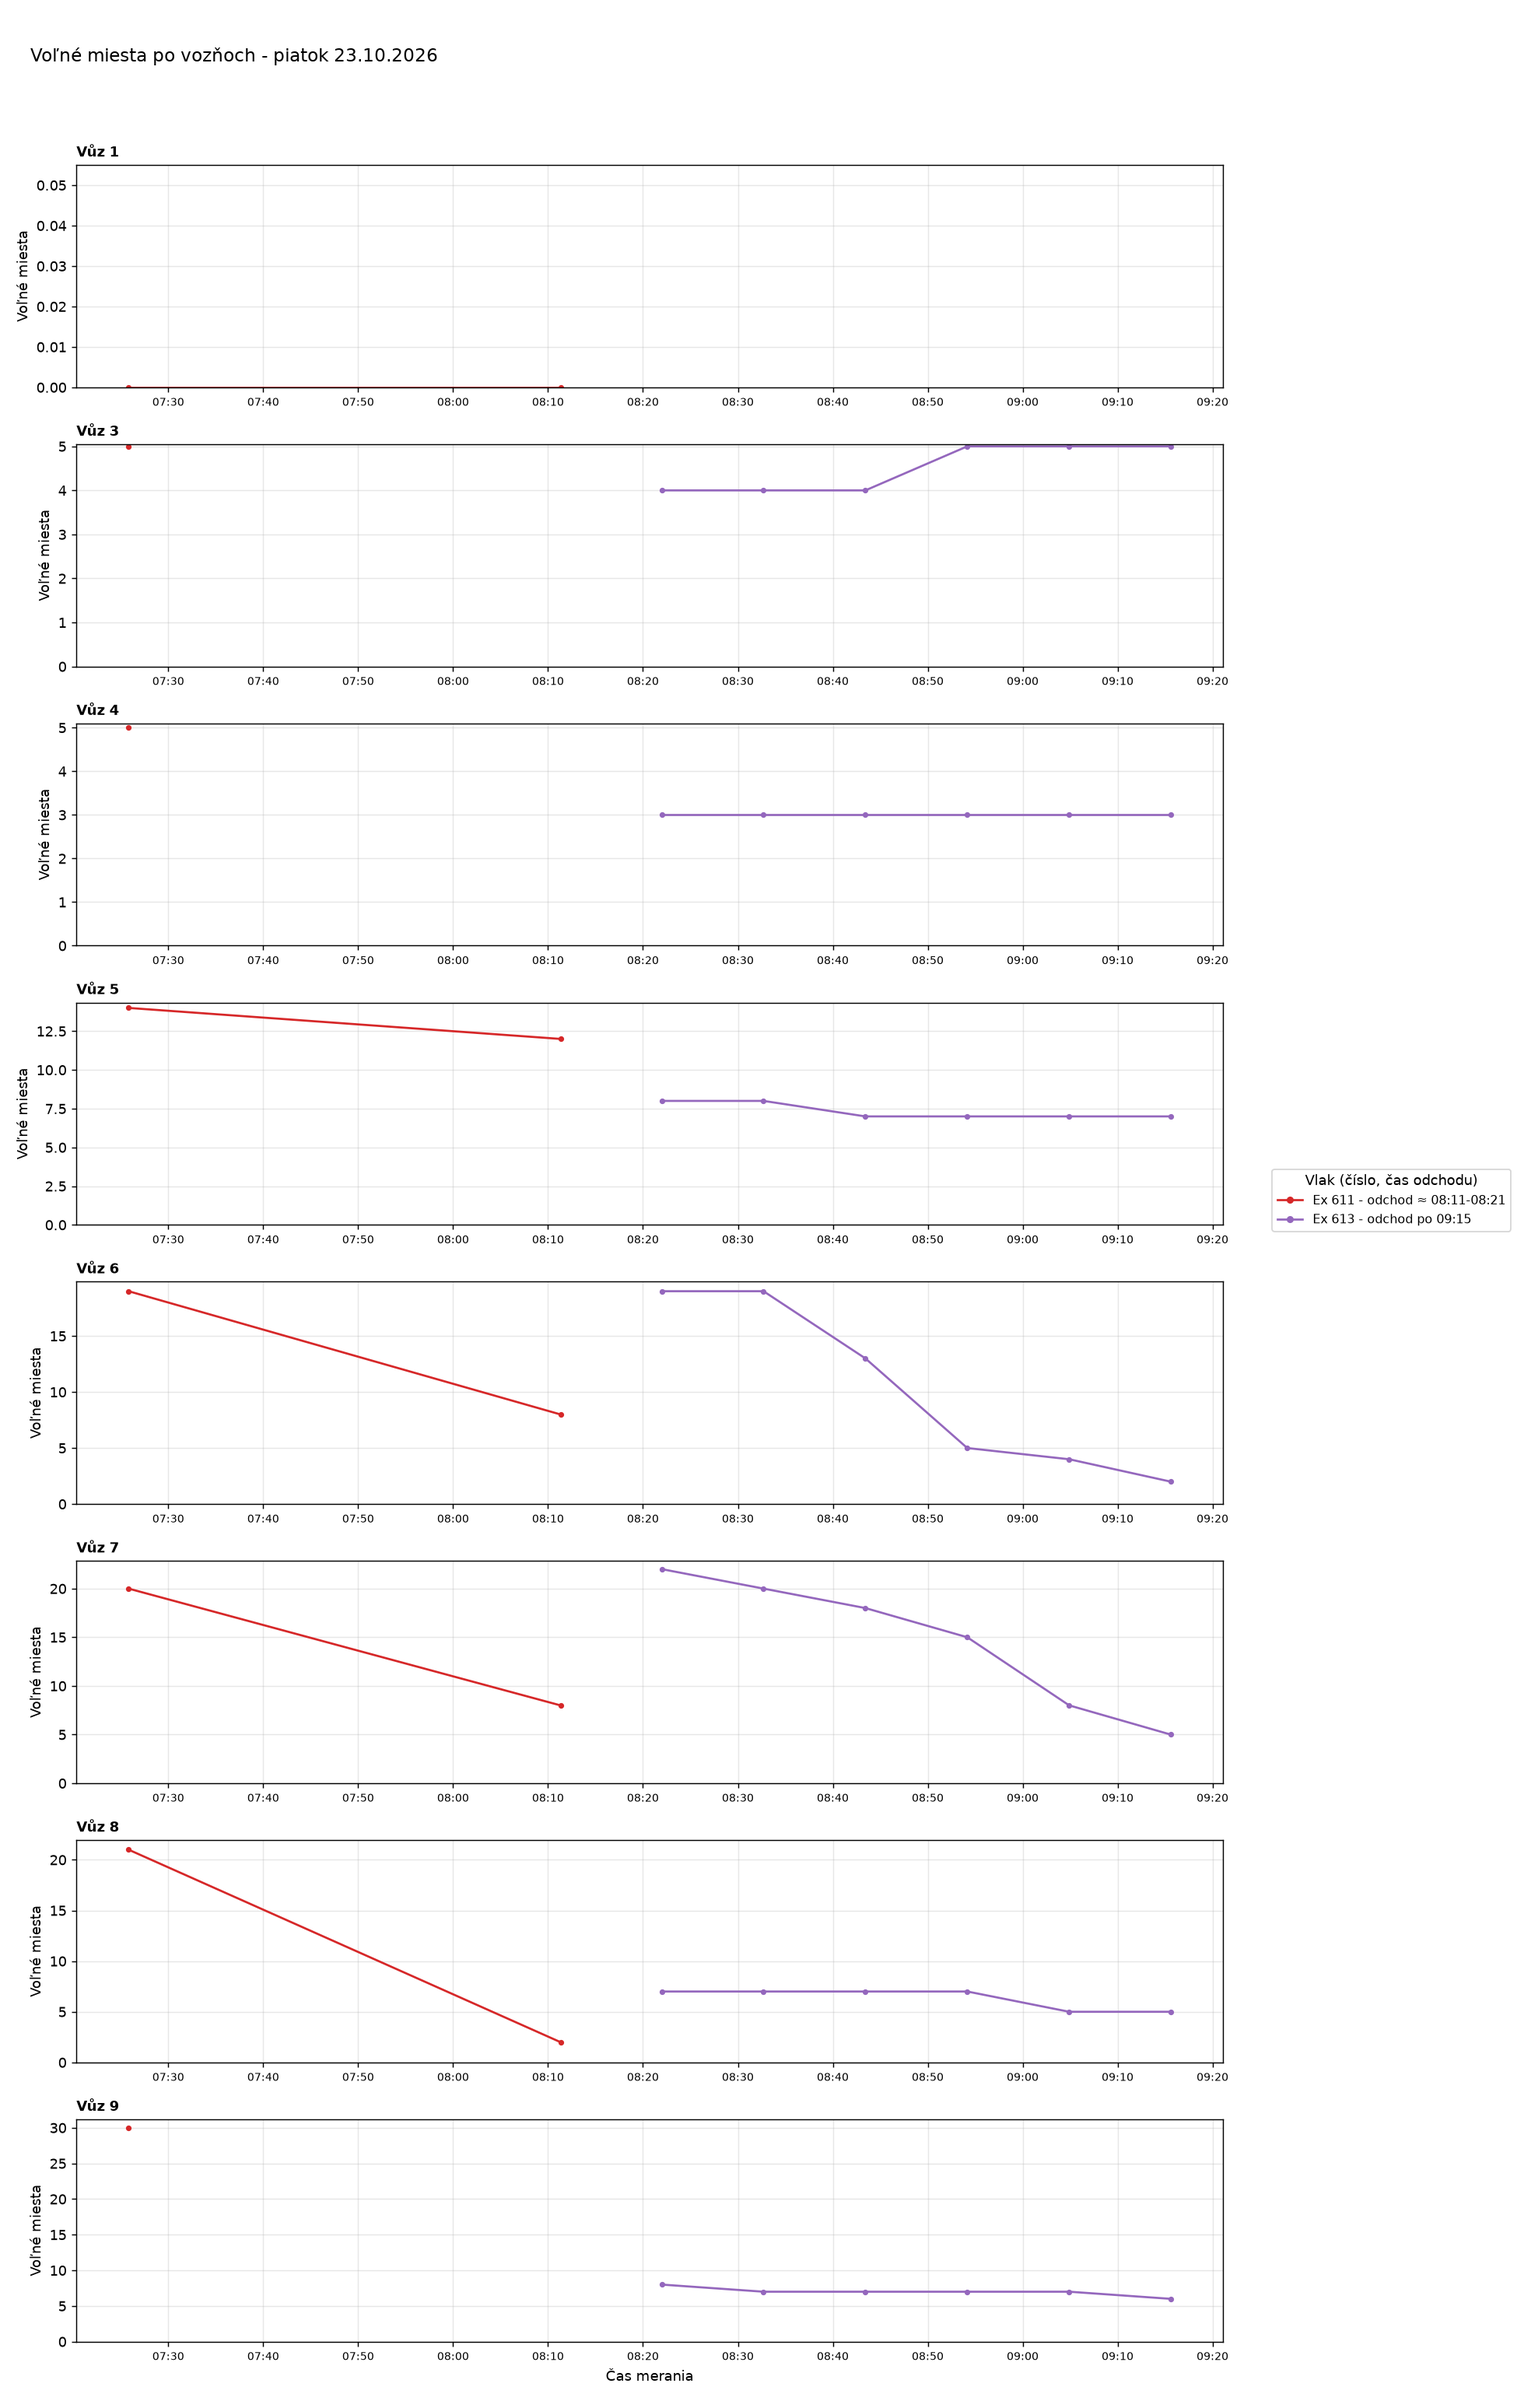
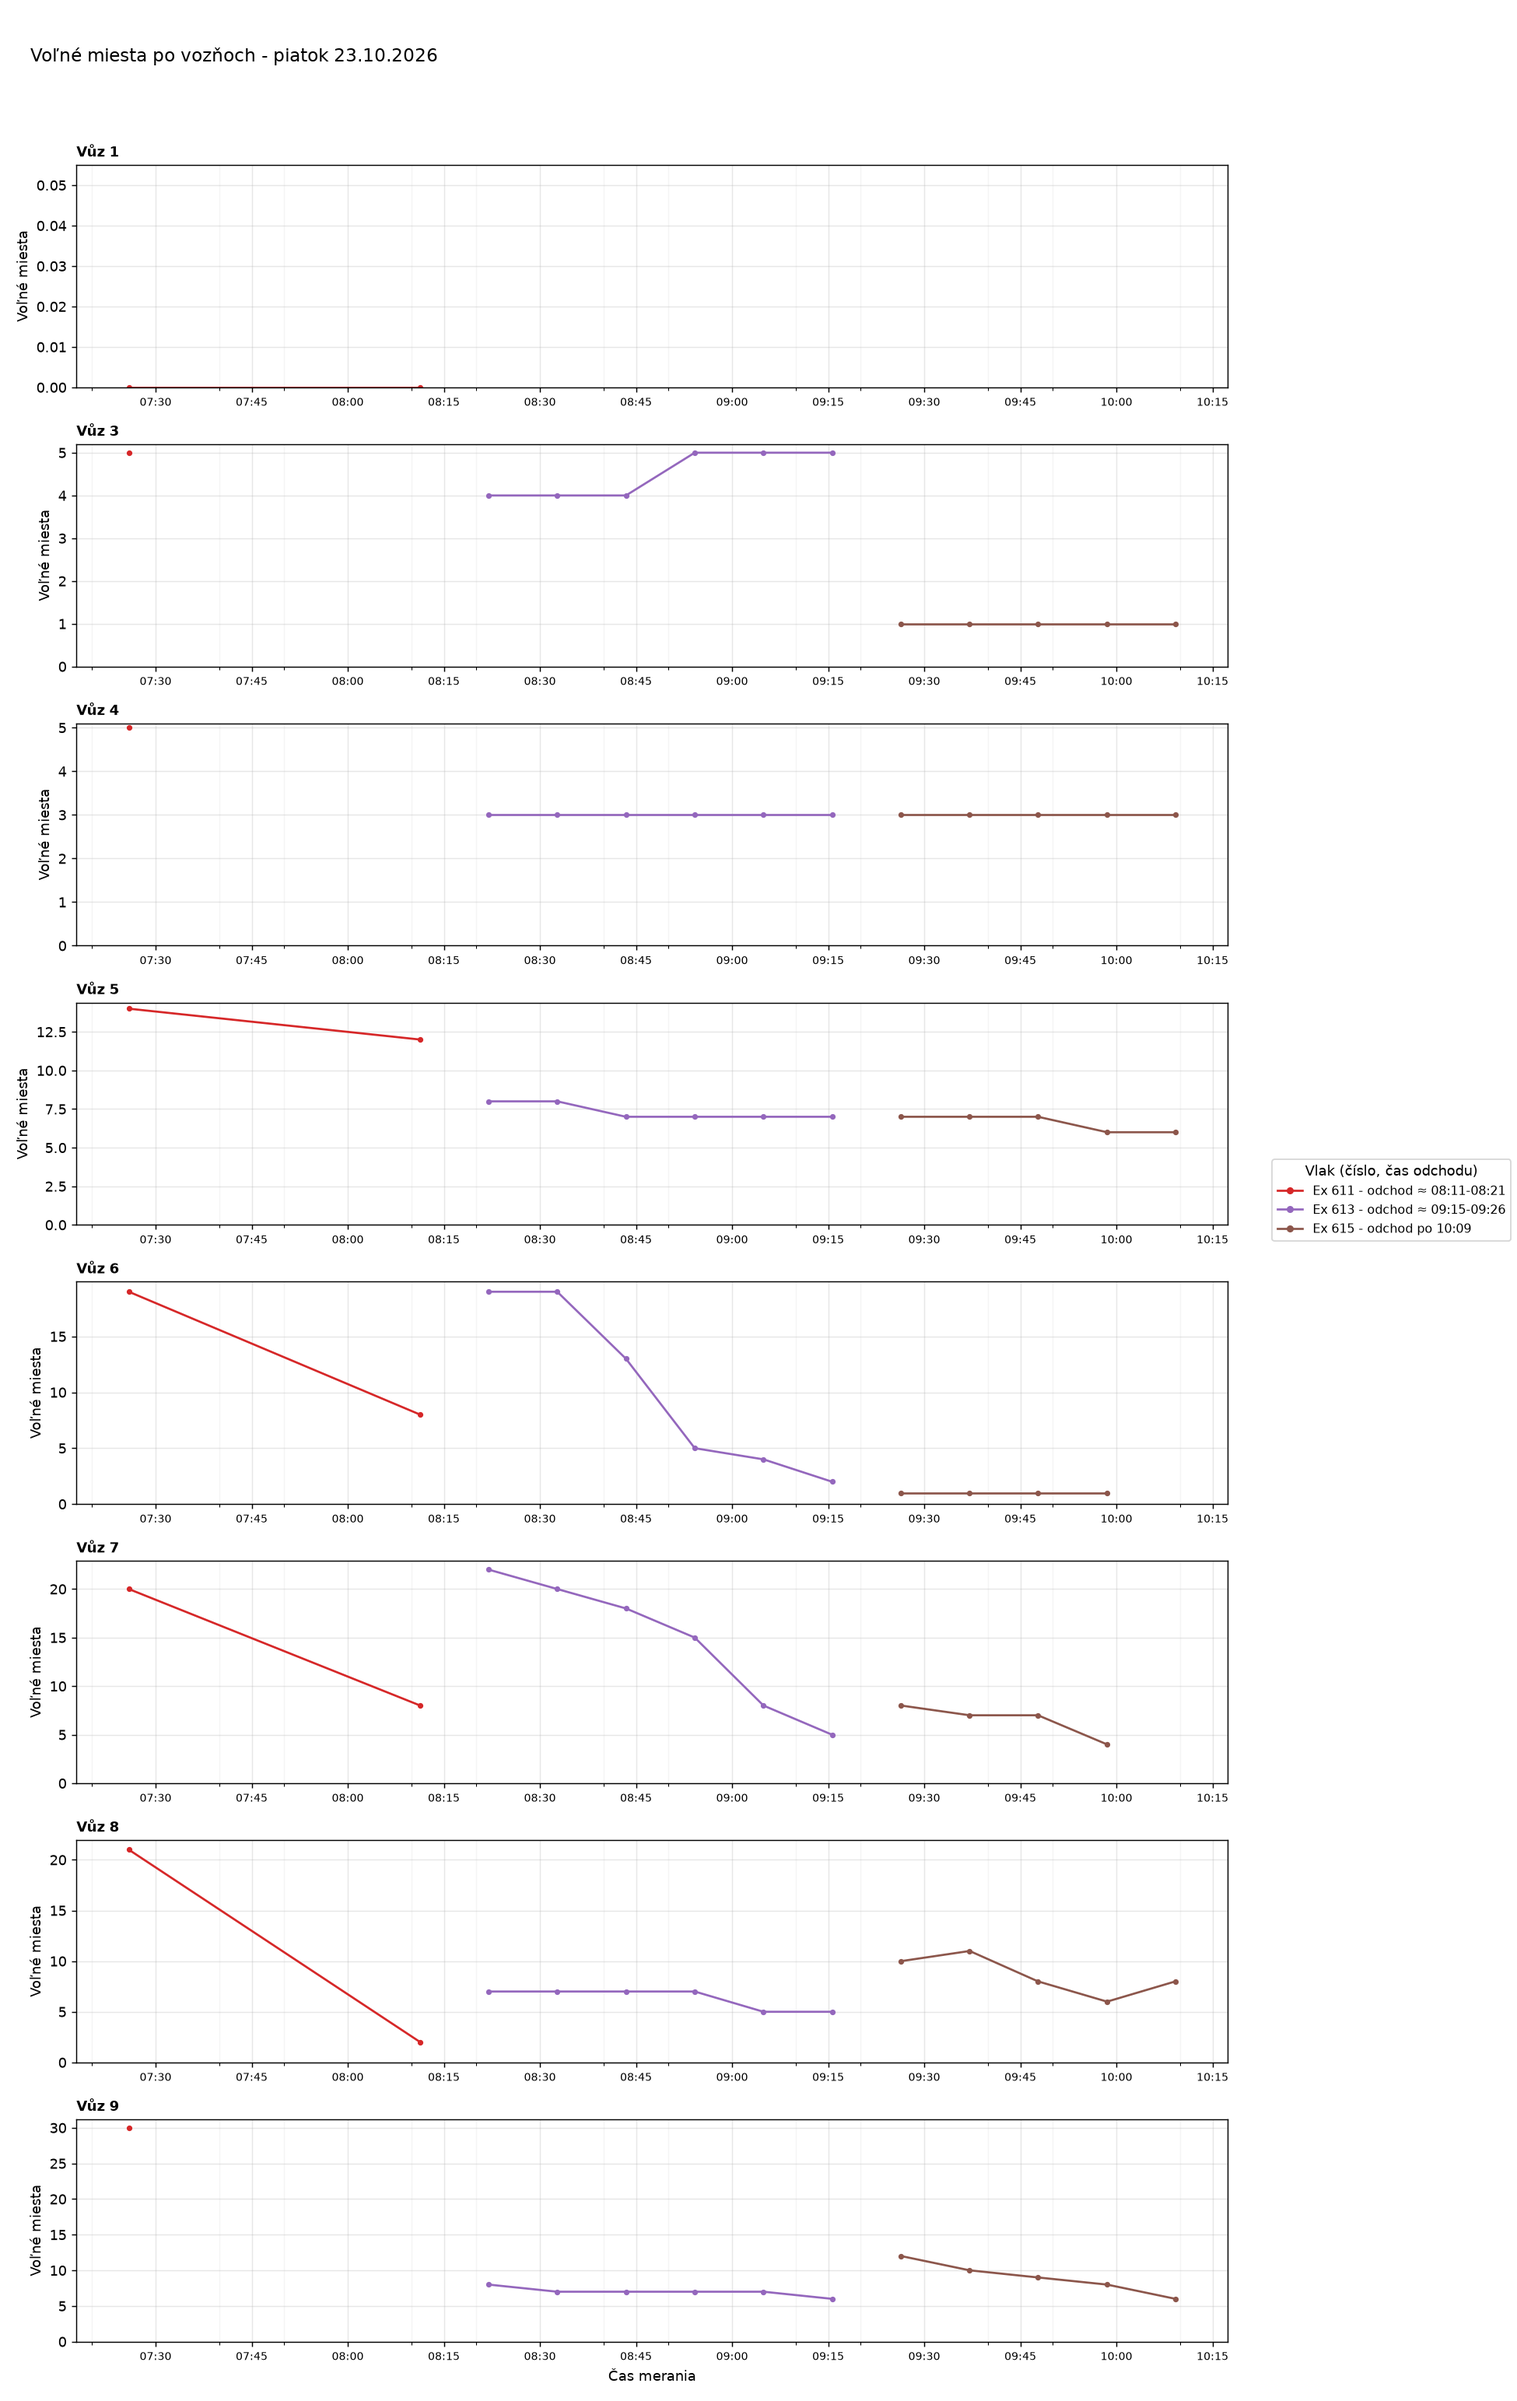
Aktualizácia grafov 2026-10-23 10:18

Changed region(s): [[0.8308, 0.4666, 0.9846, 0.5288], [0.4, 0.9644, 0.4308, 0.9955]]

diff --git a/index.html b/index.html
@@ -35,7 +35,7 @@ h2.oddiel{margin:36px 0 0;font-size:1.4rem}
 <body>
 <main>
 <h1>Voľné miesta vo vlakoch</h1>
-<p class="muted">Posledné meranie: 23.10.2026 09:15 ·
+<p class="muted">Posledné meranie: 23.10.2026 10:09 ·
 <a href="data/obsadenost_data.csv">stiahnuť dáta (CSV)</a></p>
 <nav class="nav"><a href="#suhrn">Súhrn</a><a href="#statistiky">Štatistiky</a><a href="#historia">História grafov</a></nav>
 
@@ -44,7 +44,7 @@ h2.oddiel{margin:36px 0 0;font-size:1.4rem}
 <div class="tablewrap"><table>
 <thead><tr><th>Deň</th><th>Meraní</th><th>Vlakov</th><th>Čas meraní</th></tr></thead>
 <tbody>
-<tr><td><a href="#d2026-10-23">piatok 23.10.2026</a></td><td>8</td><td>2</td><td>07:25-09:15</td></tr>
+<tr><td><a href="#d2026-10-23">piatok 23.10.2026</a></td><td>13</td><td>3</td><td>07:25-10:09</td></tr>
 <tr><td><a href="#d2026-10-22">štvrtok 22.10.2026</a></td><td>80</td><td>11</td><td>00:08-16:10</td></tr>
 <tr><td><a href="#d2026-10-21">streda 21.10.2026</a></td><td>96</td><td>15</td><td>00:10-23:58</td></tr>
 <tr><td><a href="#d2026-10-20">utorok 20.10.2026</a></td><td>34</td><td>7</td><td>13:55-23:50</td></tr>
